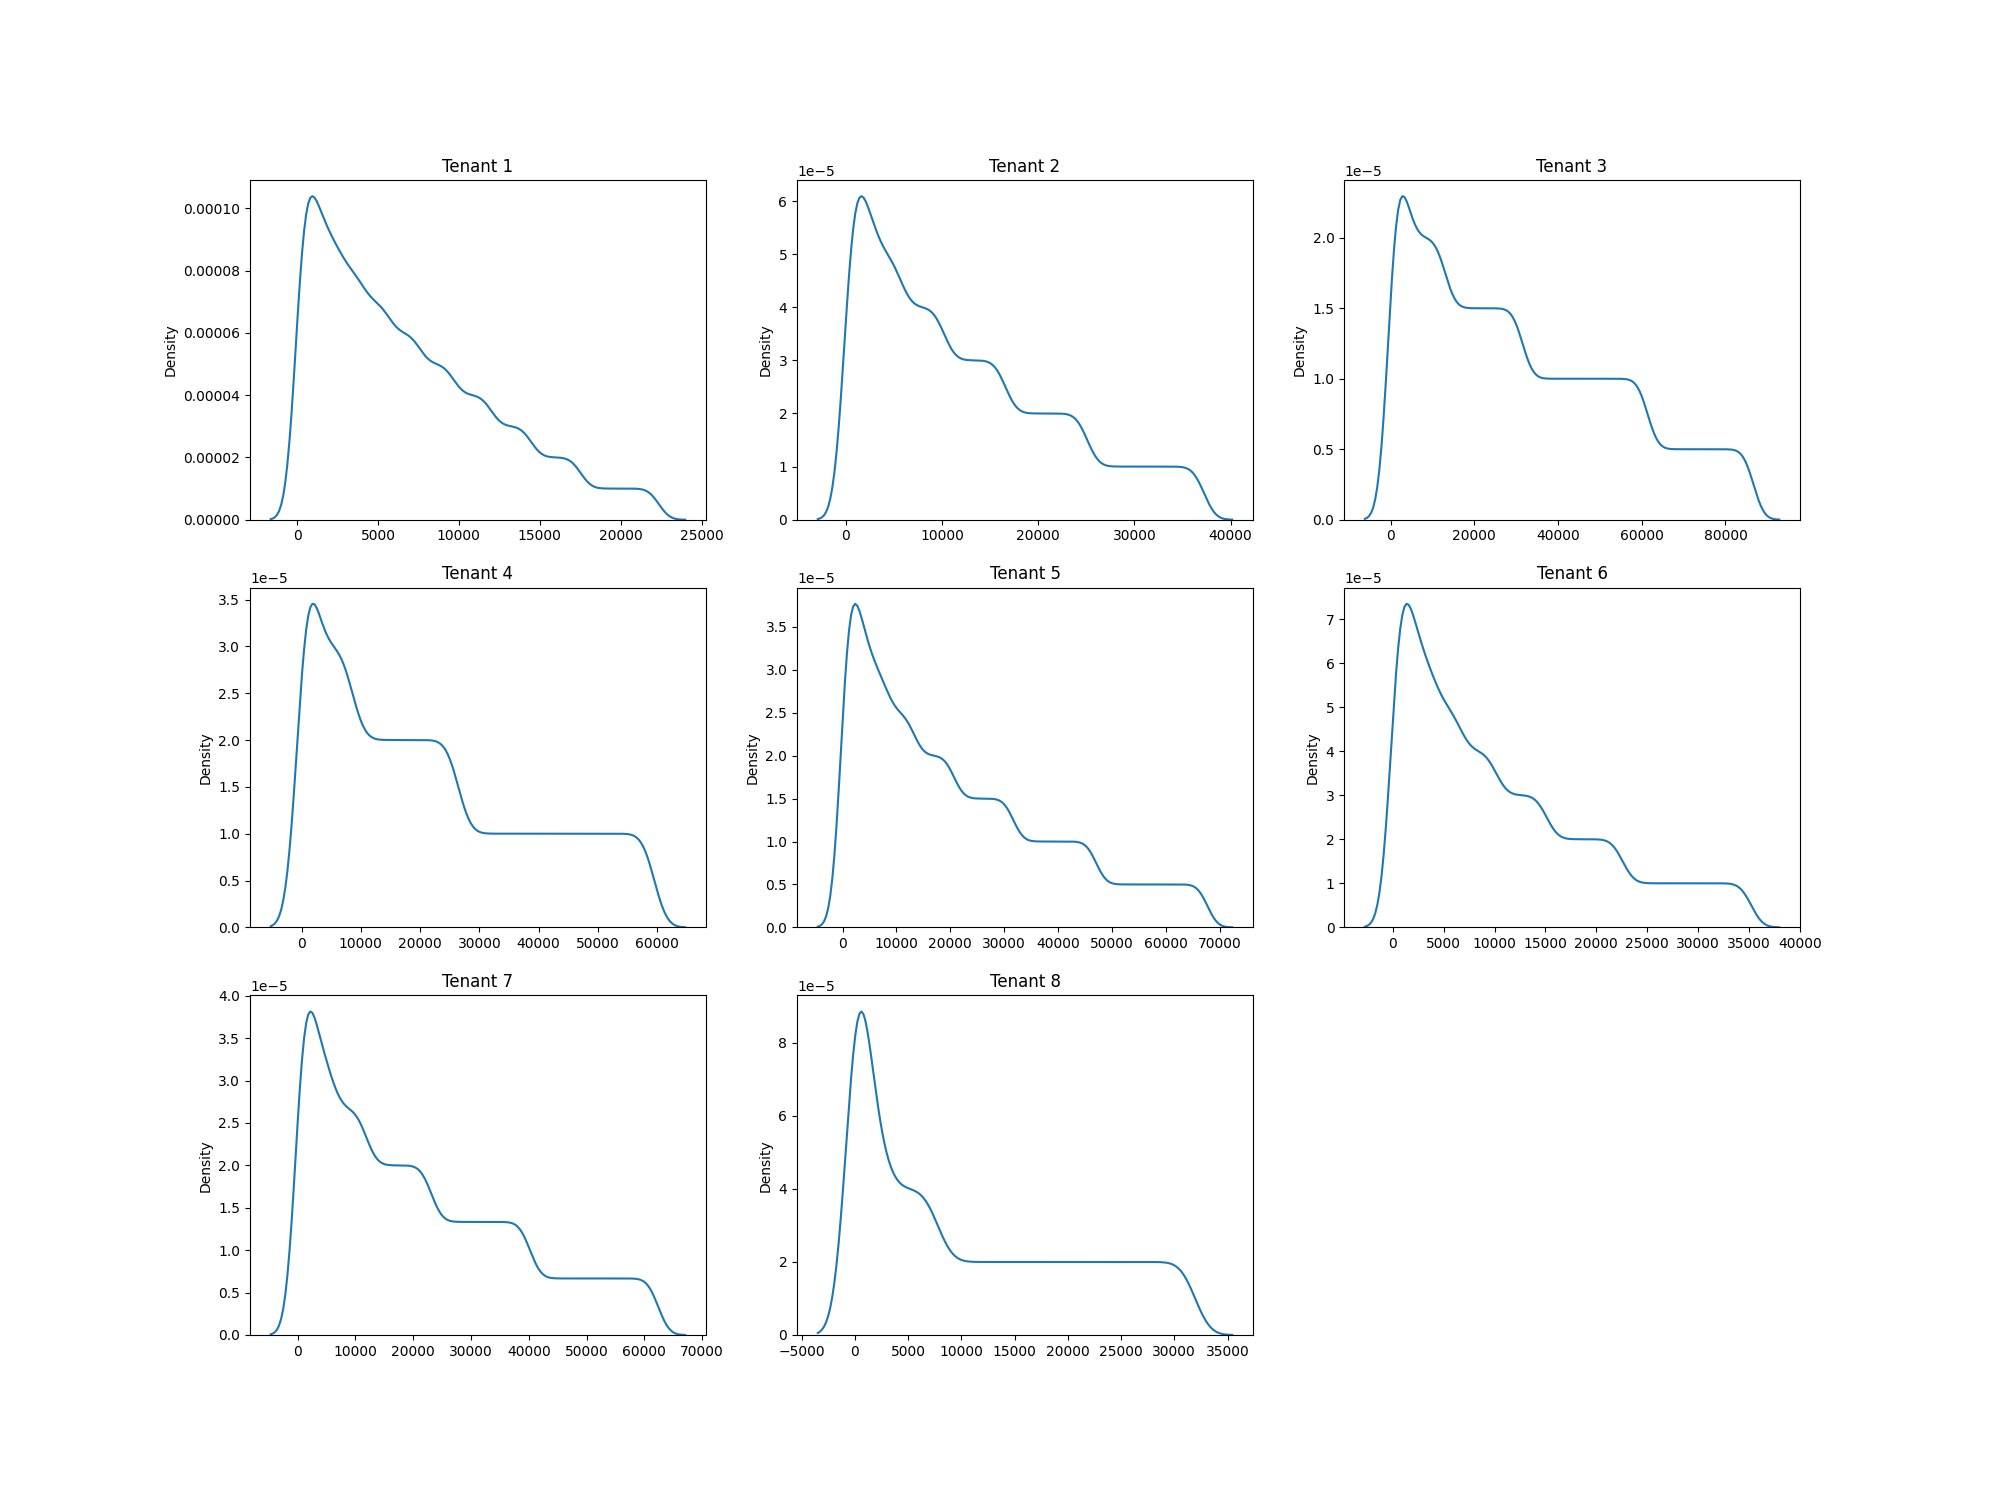
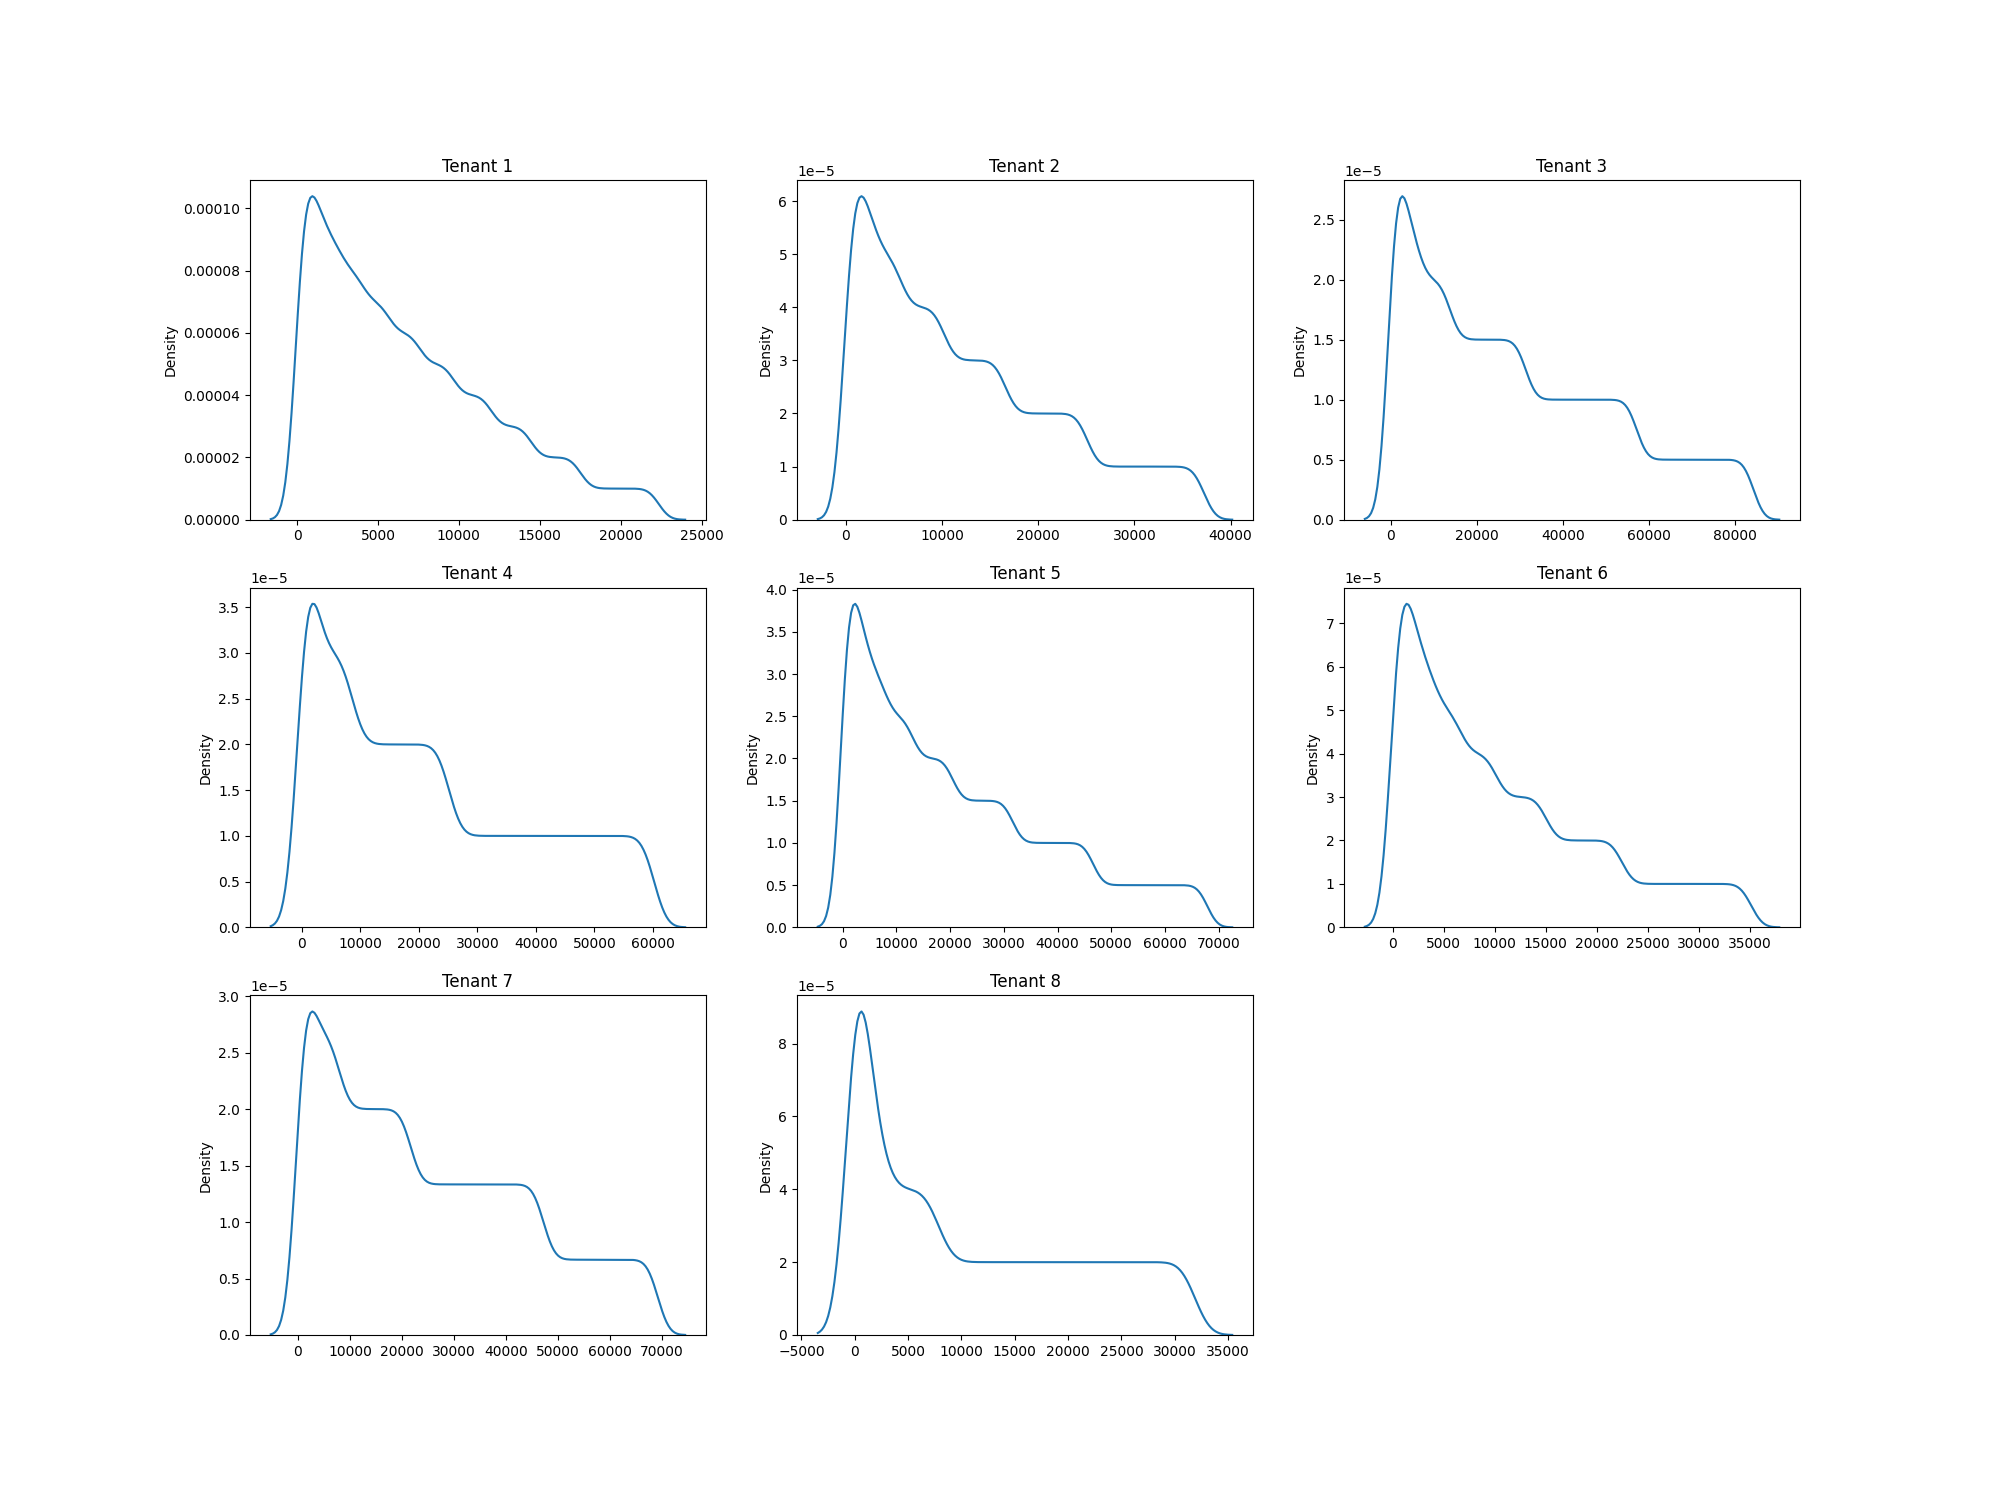
feat/modify-test-case-2

diff --git a/test_cases/test_case_2/description.py b/test_cases/test_case_2/description.py
@@ -9,17 +9,16 @@ tenants = [
         'minimum_buffer_size': 5000,
         'base_buffer_size': 20000,
         'maximum_buffer_size': 50000,
-        'page_accesses_dist': {
+        'page_accesses_dist': [
+          {
             'type': 'normal',
             'variance': 10000,
             'length': 100000,
-        },
+            'interval_type': 'uniform',
+            'interval_max_value': 1,
+          },
+        ],
         'pages_should_be_renumbered': False,
-        'page_accesses_interval_dist': {
-            'type': 'uniform',
-            'length': 100000,
-            'max_value': 1,
-        },
     },
     {
         'tenant_id': 2,
@@ -28,17 +27,16 @@ tenants = [
         'minimum_buffer_size': 4000,
         'base_buffer_size': 15000,
         'maximum_buffer_size': 40000,
-        'page_accesses_dist': {
+        'page_accesses_dist': [
+          {
             'type': 'normal',
             'variance': 20000,
             'length': 100000,
-        },
+            'interval_type': 'uniform',
+            'interval_max_value': 1,
+          },
+        ],
         'pages_should_be_renumbered': False,
-        'page_accesses_interval_dist': {
-            'type': 'uniform',
-            'length': 100000,
-            'max_value': 1,
-        },
     },
     {
         'tenant_id': 3,
@@ -47,18 +45,17 @@ tenants = [
         'minimum_buffer_size': 8000,
         'base_buffer_size': 25000,
         'maximum_buffer_size': 60000,
-        'page_accesses_dist': {
+        'page_accesses_dist': [
+          {
             'type': 'pareto',
             'parameter': 0.05,
             'length': 200000,
-        },
+            'interval_type': 'pareto',
+            'interval_parameter': 0.5,
+            'interval_max_value': 5000,
+          },
+        ],
         'pages_should_be_renumbered': True,
-        'page_accesses_interval_dist': {
-            'type': 'pareto',
-            'parameter': 0.5,
-            'length': 200000,
-            'max_value': 5000,
-        },
     },
     {
         'tenant_id': 4,
@@ -67,18 +64,17 @@ tenants = [
         'minimum_buffer_size': 5000,
         'base_buffer_size': 20000,
         'maximum_buffer_size': 50000,
-        'page_accesses_dist': {
+        'page_accesses_dist': [
+          {
             'type': 'zipfian',
             'parameter': 1.01,
             'length': 100000,
-        },
+            'interval_type': 'zipfian',
+            'interval_parameter': 2,
+            'interval_max_value': 100000,
+          },
+        ],
         'pages_should_be_renumbered': True,
-        'page_accesses_interval_dist': {
-            'type': 'zipfian',
-            'parameter': 2,
-            'length': 100000,
-            'max_value': 100000,
-        },
     },
     {
         'tenant_id': 5,
@@ -87,18 +83,17 @@ tenants = [
         'minimum_buffer_size': 20000,
         'base_buffer_size': 40000,
         'maximum_buffer_size': 100000,
-        'page_accesses_dist': {
+        'page_accesses_dist': [
+          {
             'type': 'normal',
             'variance': 5000,
             'length': 200000,
-        },
+            'interval_type': 'normal',
+            'interval_variance': 10,
+            'interval_max_value': 100000,
+          },
+        ],
         'pages_should_be_renumbered': True,
-        'page_accesses_interval_dist': {
-            'type': 'normal',
-            'length': 200000,
-            'variance': 10,
-            'max_value': 100000,
-        },
     },
     {
         'tenant_id': 6,
@@ -107,18 +102,17 @@ tenants = [
         'minimum_buffer_size': 4000,
         'base_buffer_size': 10000,
         'maximum_buffer_size': 30000,
-        'page_accesses_dist': {
+        'page_accesses_dist': [
+          {
             'type': 'normal',
             'variance': 5000,
             'length': 100000,
-        },
+            'interval_type': 'normal',
+            'interval_variance': 3,
+            'interval_max_value': 80000,
+          },
+        ],
         'pages_should_be_renumbered': True,
-        'page_accesses_interval_dist': {
-            'type': 'normal',
-            'length': 100000,
-            'variance': 3,
-            'max_value': 80000,
-        },
     },
     {
         'tenant_id': 7,
@@ -127,18 +121,17 @@ tenants = [
         'minimum_buffer_size': 14000,
         'base_buffer_size': 30000,
         'maximum_buffer_size': 80000,
-        'page_accesses_dist': {
+        'page_accesses_dist': [
+          {
             'type': 'normal',
             'variance': 4000,
             'length': 150000,
-        },
+            'interval_type': 'zipfian',
+            'interval_parameter': 2,
+            'interval_max_value': 80000,
+          },
+        ],
         'pages_should_be_renumbered': True,
-        'page_accesses_interval_dist': {
-            'type': 'zipfian',
-            'parameter': 2,
-            'length': 150000,
-            'max_value': 80000,
-        },
     },
     {
         'tenant_id': 8,
@@ -147,17 +140,16 @@ tenants = [
         'minimum_buffer_size': 4000,
         'base_buffer_size': 10000,
         'maximum_buffer_size': 30000,
-        'page_accesses_dist': {
+        'page_accesses_dist': [
+          {
             'type': 'zipfian',
             'parameter': 1.005,
             'length': 50000,
-        },
+            'interval_type': 'uniform',
+            'interval_max_value': 1,
+          },
+        ],
         'pages_should_be_renumbered': False,
-        'page_accesses_interval_dist': {
-            'type': 'uniform',
-            'length': 50000,
-            'max_value': 1,
-        },
     },
 ]
 
